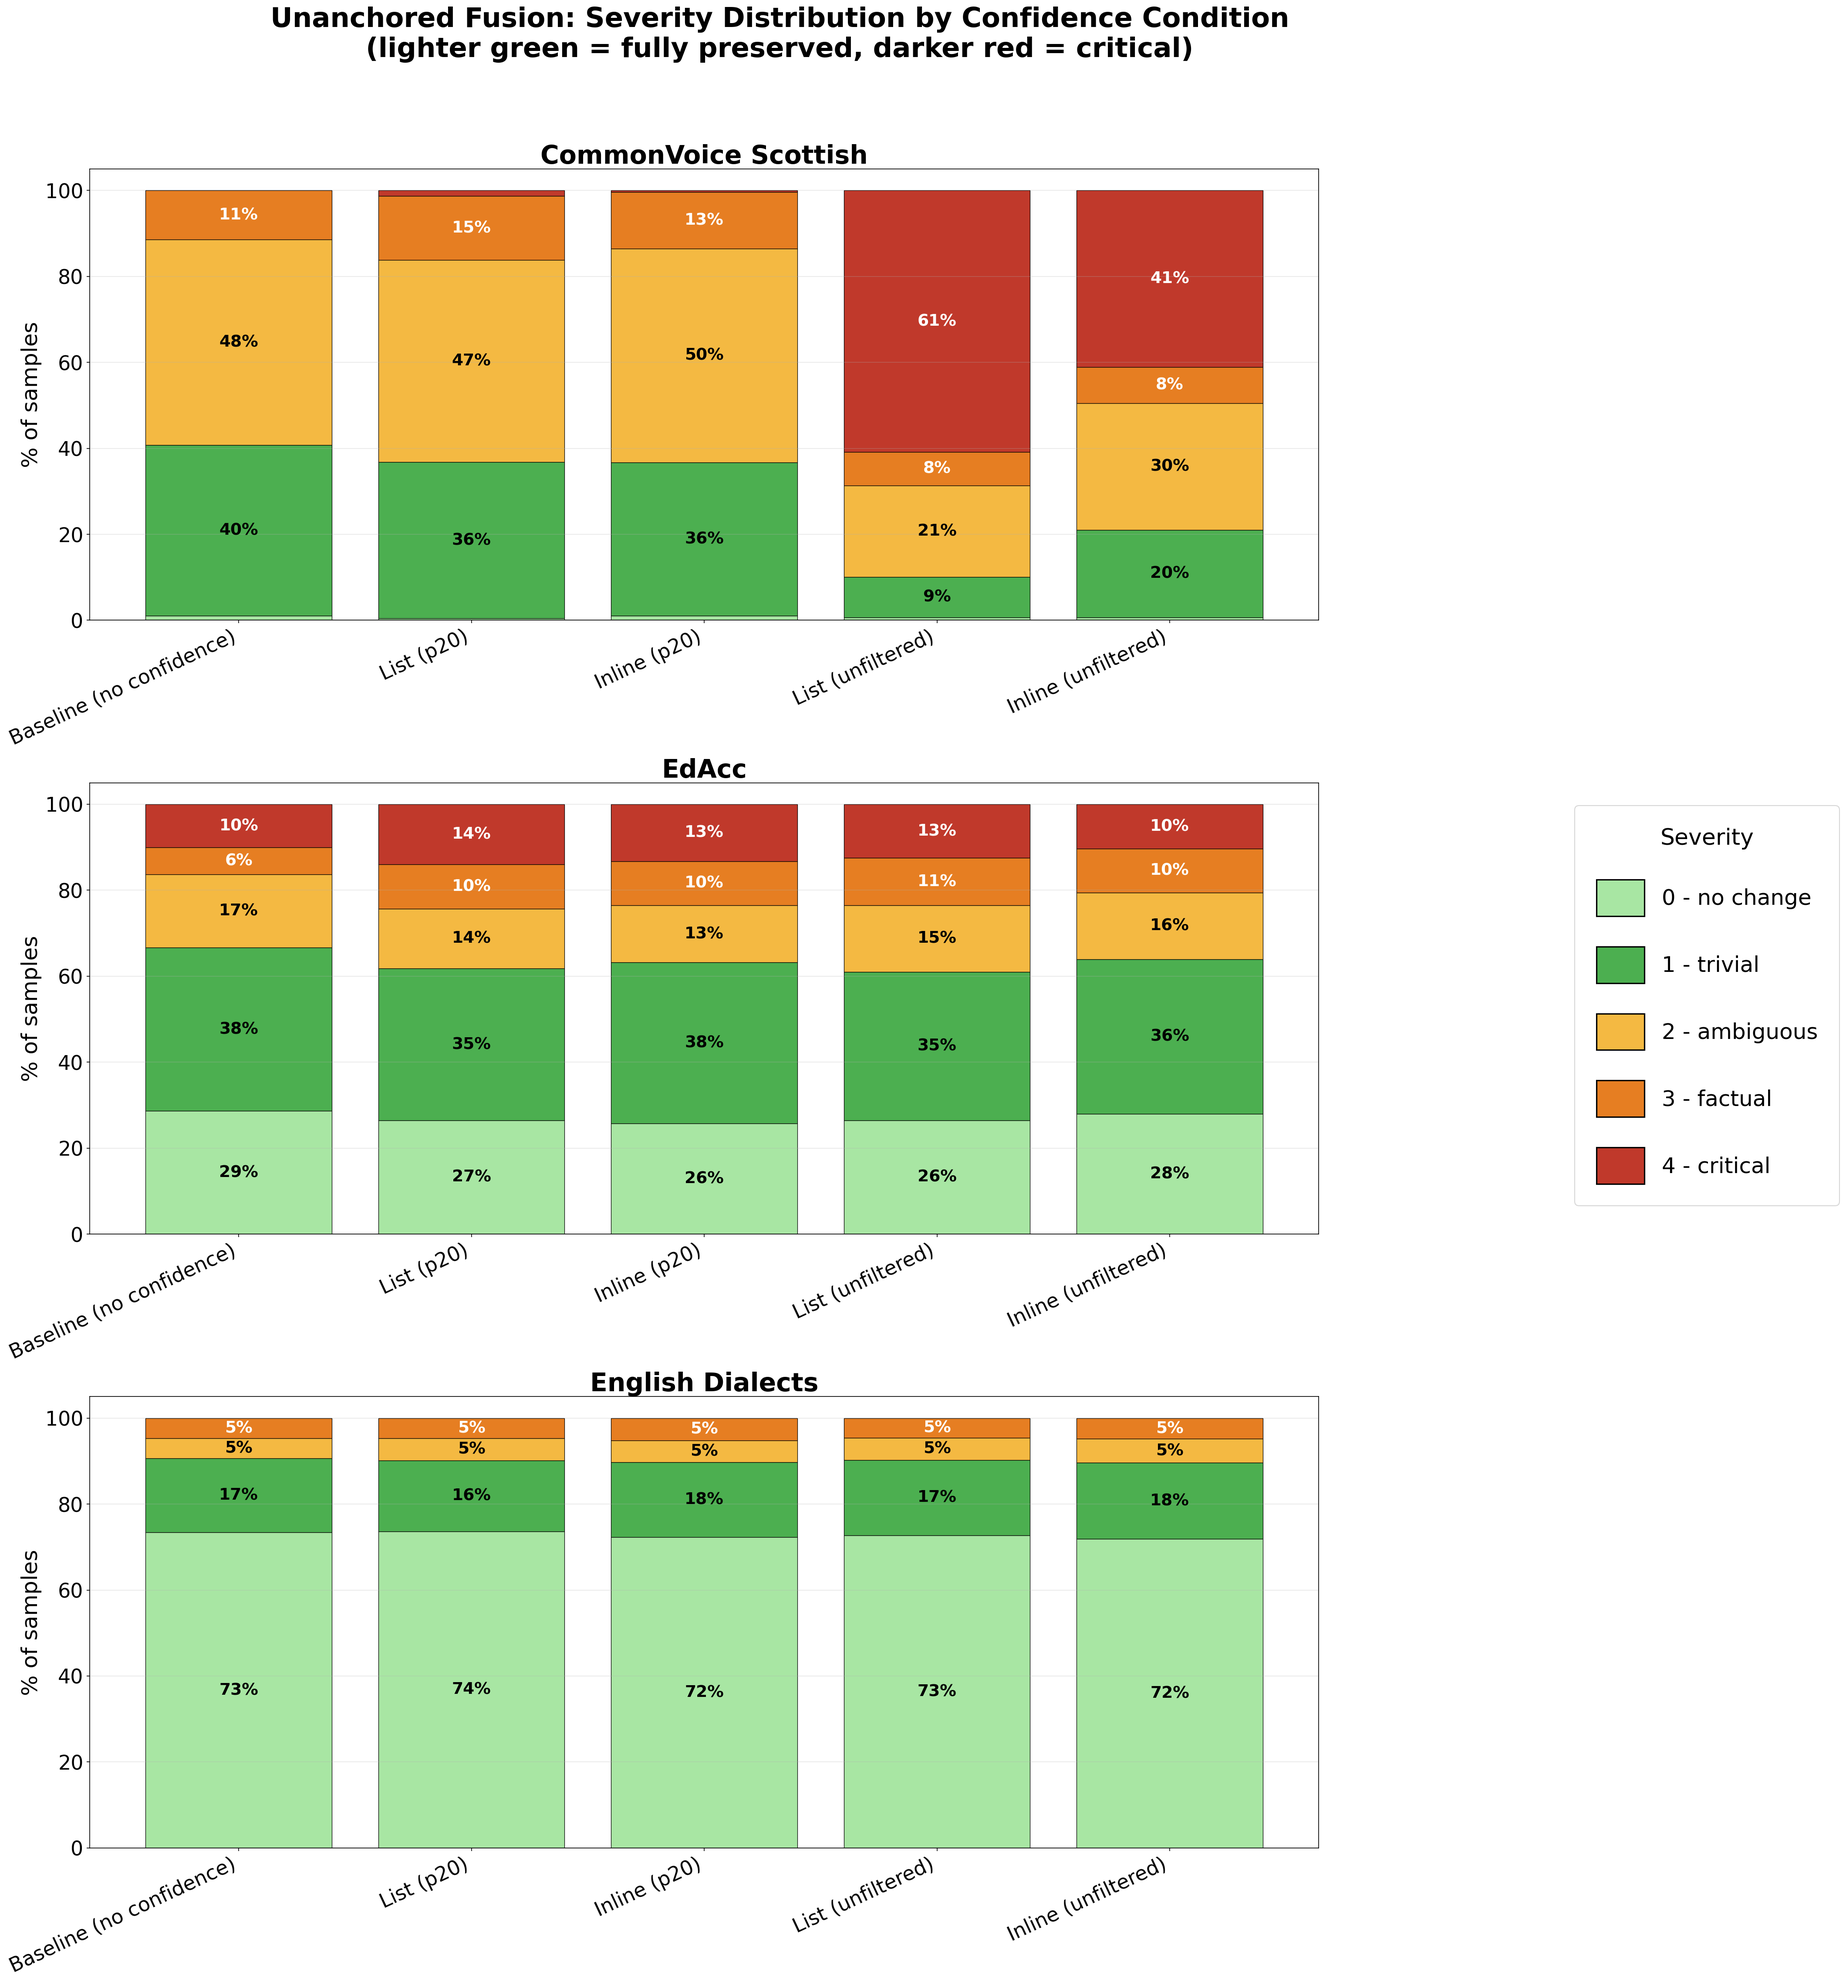
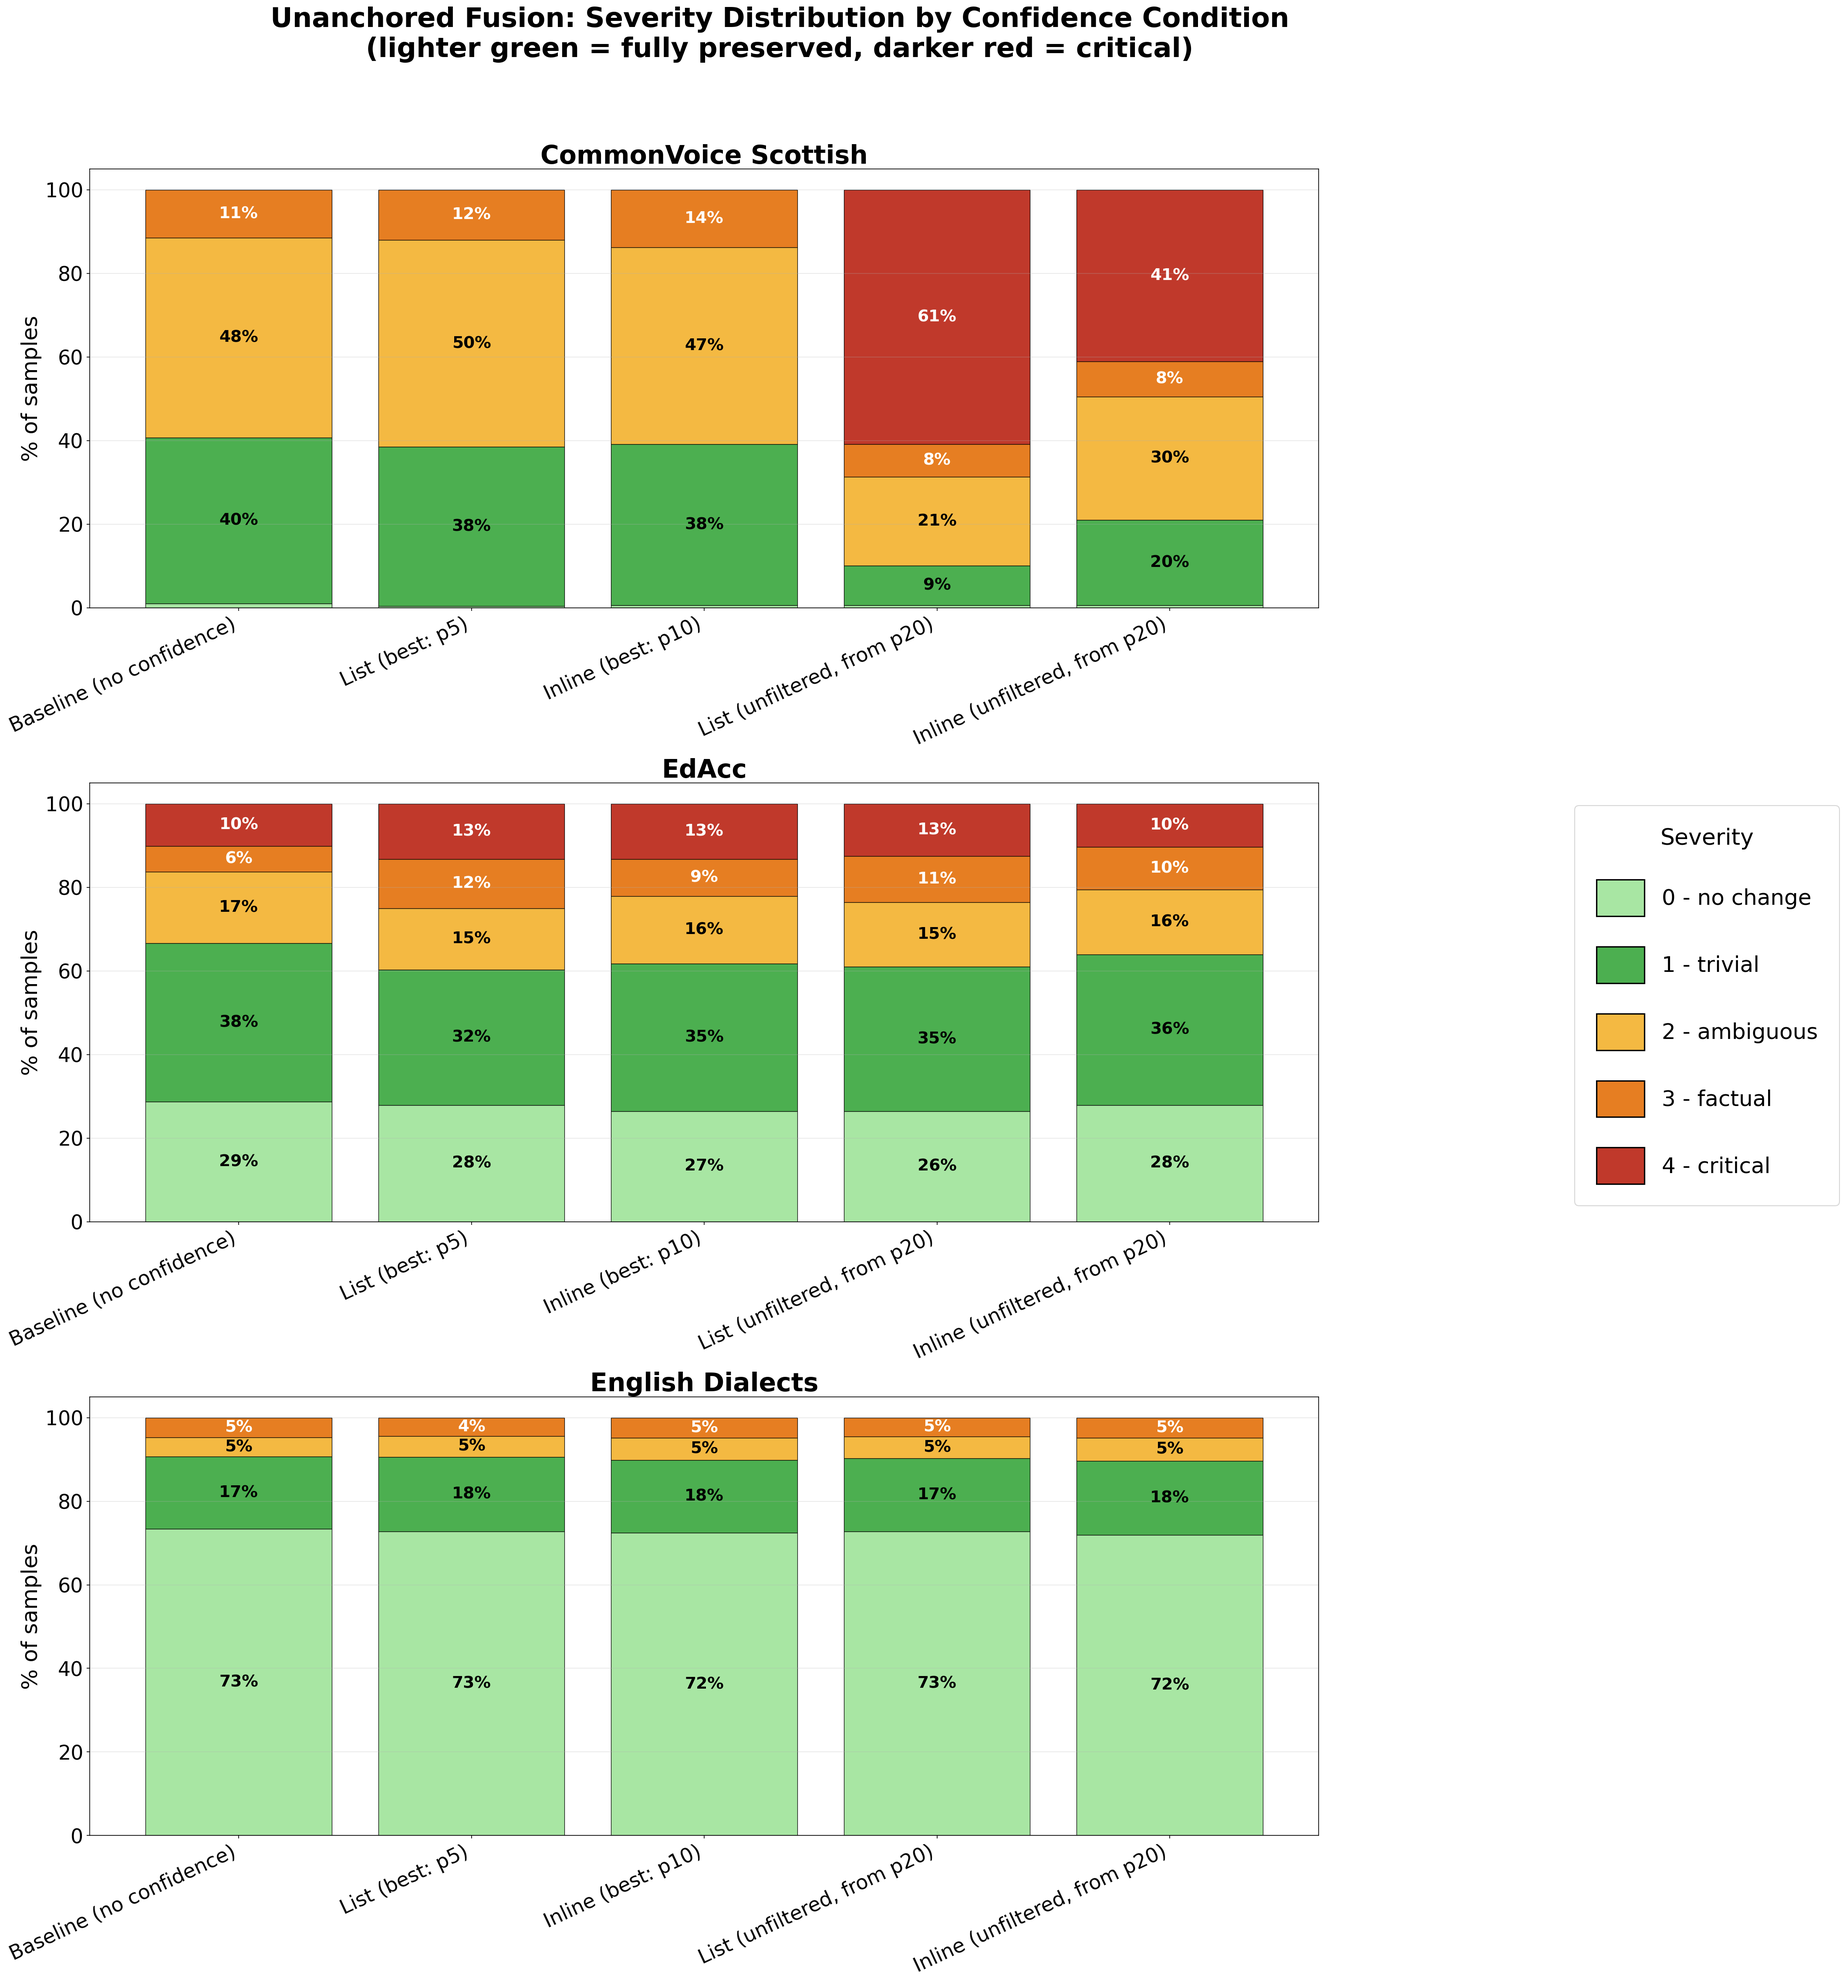
chore: commit local to rebase

diff --git a/plot_confidence_conditions.py b/plot_confidence_conditions.py
@@ -8,24 +8,22 @@ the locked winning strategy (Unanchored Fusion + Naive).
 
 Conditions (left to right):
   Baseline (no confidence)
-  List (p20 threshold)
-  Inline (p20 threshold)
-  List (p10 threshold)      - only shown if the file exists
-  Inline (p10 threshold)    - only shown if the file exists
-  List (p5 threshold)       - only shown if the file exists
-  Inline (p5 threshold)     - only shown if the file exists
+  List (best threshold: p5 - confirmed via full p5/p10/p20 sweep,
+        avg severity 1.214 vs 1.220 at p10, 1.237 at p20)
+  Inline (best threshold: p10 - avg severity 1.212 vs 1.228 at p5,
+        1.224 at p20)
   List (unfiltered, v2 compliance-checked)
   Inline (unfiltered, v2 compliance-checked)
+
+Only the best-performing threshold per format is featured, rather than
+all 3 (largely redundant once the sweep confirmed the winner) - the
+full p5/p10/p20 comparison remains available separately if needed.
 
 Confidence experiment files were all run AFTER the candidate_pool.json
 naming fix, so they already correctly exclude calibration samples -
 no _calib_fixed mirror needed for these specifically. The baseline
 (no confidence) condition uses the grid_calib_fixed mirror, same as
 plot_strategy_severity.py.
-
-Missing files (e.g. p5/p10 still running in the background) are
-skipped gracefully rather than erroring - the chart just shows
-whichever conditions are actually done.
 
 Usage:
     python plot_confidence_conditions.py
@@ -59,25 +57,26 @@ FONT_BAR_LABEL = 18
 
 
 def condition_file_paths(dataset):
-    """Returns {label: path} - only includes p5/p10 entries if those
-    files actually exist yet (background job may still be running)."""
+    """Returns {label: path}.
+
+    Featured conditions, per the full p5/p10/p20 sweep comparison:
+      List:   p5 was the best-performing threshold (avg severity 1.214,
+              vs 1.220 at p10 and 1.237 at p20 - p20 was actually the
+              WORST of the three for List format).
+      Inline: p10 was the best-performing threshold (avg severity 1.212,
+              vs 1.228 at p5 and 1.224 at p20).
+    Rather than clutter the figure with all 3 thresholds per format
+    (which are largely redundant once the sweep confirmed the winner),
+    this shows only the best of each - the full sweep numbers remain
+    available via the printed summary table for anyone who wants the
+    detail."""
     paths = {
         "Baseline\n(no confidence)": f"writeup_results/grid_calib_fixed/unanchored_fusion_naive/unanchored_fusion_naive_{dataset}_gemma4_dev.json",
-        "List\n(p20)": f"writeup_results/grid/unanchored_fusion_naive_confidence_list/unanchored_fusion_naive_confidence_list_{dataset}_gemma4_p20_thr-dev_dev.json",
-        "Inline\n(p20)": f"writeup_results/grid/unanchored_fusion_naive_confidence_inline/unanchored_fusion_naive_confidence_inline_{dataset}_gemma4_p20_thr-dev_dev.json",
+        "List\n(best: p5)": f"writeup_results/grid/unanchored_fusion_naive_confidence_list/unanchored_fusion_naive_confidence_list_{dataset}_gemma4_p5_thr-dev_dev.json",
+        "Inline\n(best: p10)": f"writeup_results/grid/unanchored_fusion_naive_confidence_inline/unanchored_fusion_naive_confidence_inline_{dataset}_gemma4_p10_thr-dev_dev.json",
+        "List\n(unfiltered,\nfrom p20)": f"writeup_results/grid/unanchored_fusion_naive_confidence_list_full_v2/unanchored_fusion_naive_confidence_list_full_v2_{dataset}_gemma4_dev.json",
+        "Inline\n(unfiltered,\nfrom p20)": f"writeup_results/grid/unanchored_fusion_naive_confidence_inline_full_v2/unanchored_fusion_naive_confidence_inline_full_v2_{dataset}_gemma4_dev.json",
     }
-
-    for p in [10, 5]:
-        list_path = f"writeup_results/grid/unanchored_fusion_naive_confidence_list/unanchored_fusion_naive_confidence_list_{dataset}_gemma4_p{p}_thr-dev_dev.json"
-        inline_path = f"writeup_results/grid/unanchored_fusion_naive_confidence_inline/unanchored_fusion_naive_confidence_inline_{dataset}_gemma4_p{p}_thr-dev_dev.json"
-        if os.path.exists(list_path):
-            paths[f"List\n(p{p})"] = list_path
-        if os.path.exists(inline_path):
-            paths[f"Inline\n(p{p})"] = inline_path
-
-    paths["List\n(unfiltered)"] = f"writeup_results/grid/unanchored_fusion_naive_confidence_list_full_v2/unanchored_fusion_naive_confidence_list_full_v2_{dataset}_gemma4_dev.json"
-    paths["Inline\n(unfiltered)"] = f"writeup_results/grid/unanchored_fusion_naive_confidence_inline_full_v2/unanchored_fusion_naive_confidence_inline_full_v2_{dataset}_gemma4_dev.json"
-
     return paths
 
 
